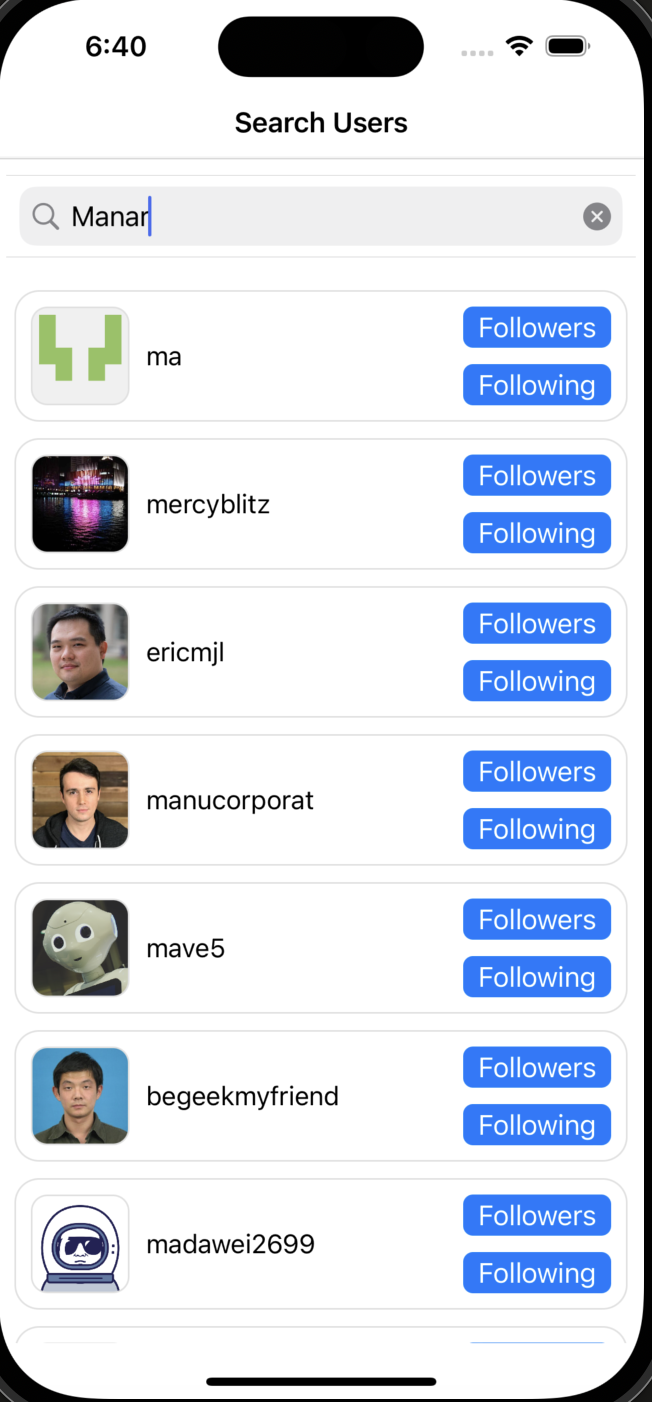
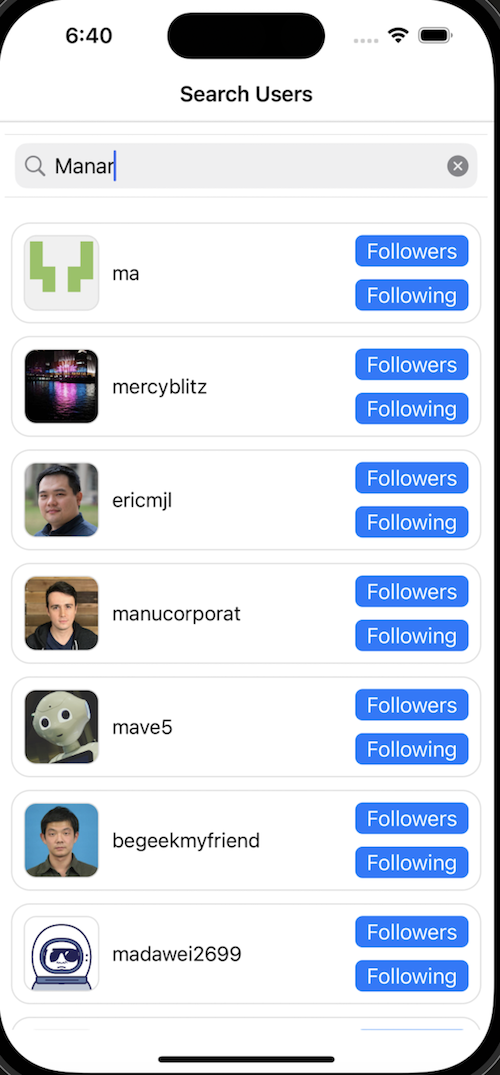
update README

diff --git a/README.md b/README.md
@@ -10,8 +10,14 @@ This tool helping you to get Github users informations and dump their followers 
 ```
 And now you're good to go..
 
-<img src="Images/Index.png" alt="Index Page" title="Index Page" style="width:150px !important;height:150px !important;">
+Index Page:
 
-<img src="Images/Followers.png" alt="Followers Page" title="Followers Page" style="width:150px !important;height:150px !important;">
+<img src="Images/Index.png" alt="Index Page" title="Index Page" style="width:500px !important;height:1075px !important;">
 
-<img src="Images/Following.png" alt="Followings Page" title="Following Page" style="width:150px !important;height:150px !important;">
+Followers Page:
+
+<img src="Images/Followers.png" alt="Followers Page" title="Followers Page" style="width:500px !important;height:1075px !important;">
+
+Following Page:
+
+<img src="Images/Following.png" alt="Followings Page" title="Following Page" style="width:500px !important;height:1075px !important;">
